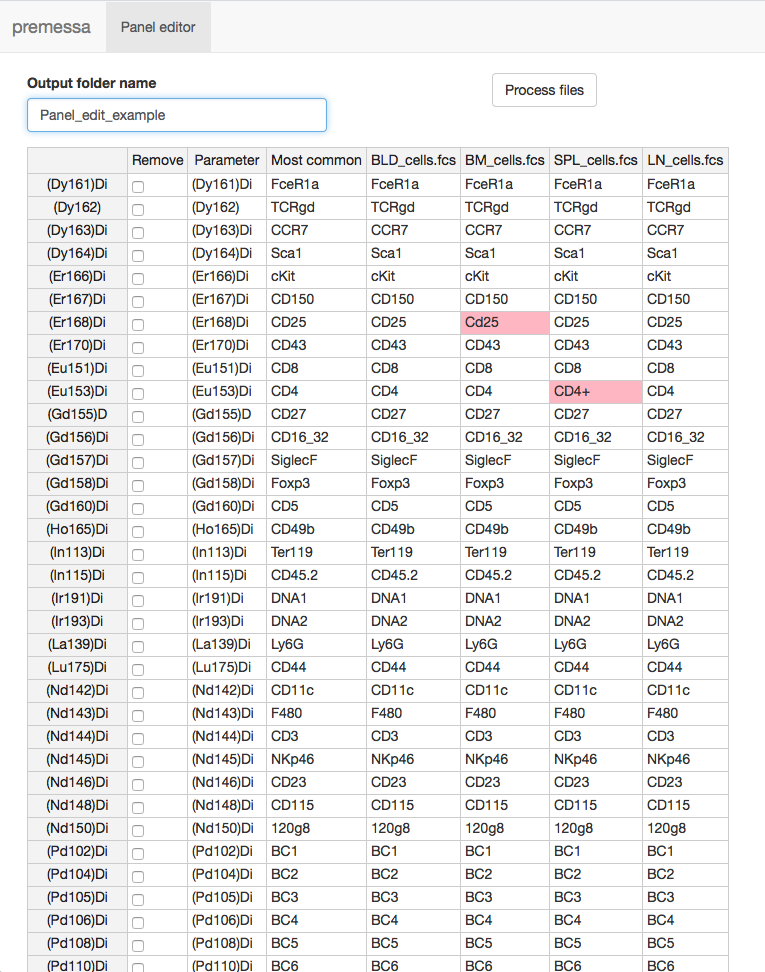
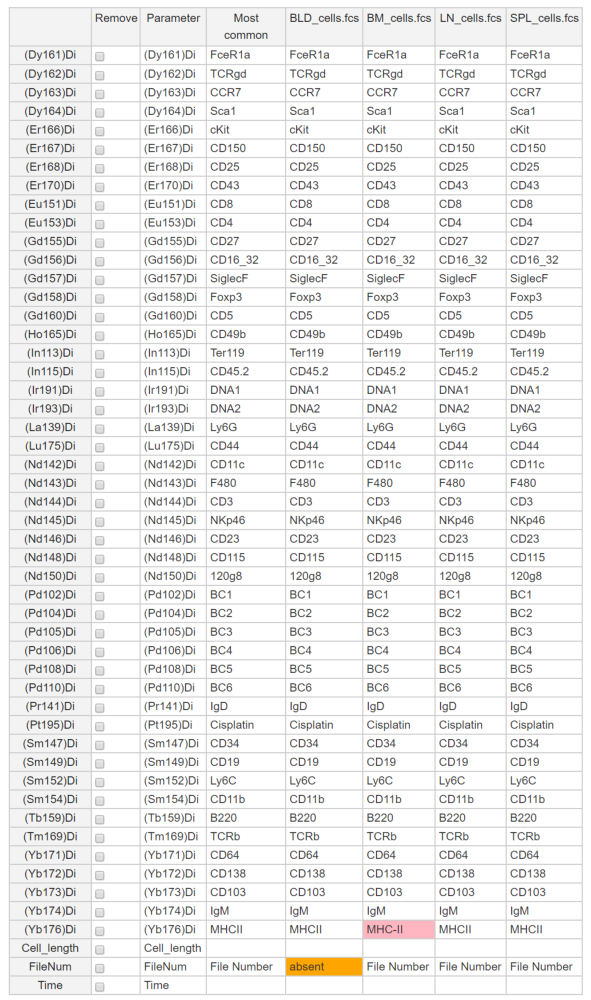
updated README

diff --git a/README.md b/README.md
@@ -50,19 +50,19 @@ normalizer_GUI()
 ```
 In this tutorial we will use both formats, depending on how many functions we are calling from the same package (the second format saves a lot of typing if you are using multiple functions from the same pacakage in your analysis)
 
-# Description of the dataset used in this tutorial
+# Overview of the tutorial and sample data
 
-**[ADD A DECSRIPTION OF THE DATASET, HOW MANY FILES, HOW THEY ARE ORGANIZED, WHAT SAMPLES THEY REPRESENT]**
+In this tutorial we will provide step-by-step instructions to analyze and visualize high-dimensional single cell cytometry data. While these methods are applicable to both flow and mass-cytometry data, this tutorial uses a mass-cytometry from a 2015 [publication](https://www.ncbi.nlm.nih.gov/pubmed/26160952) in _Science_.
 
-# Overview
+The data (a subset of the data presented in the paper) is available [here](https://pici.app.box.com/folder/52255586839). This dataset includes immune cells from 4 different tissues (bone marrow, blood, spleen, lymph nodes) and 3 different genetic strains of mice (C57BL/6, Balb/c, and 129S1/S). 
 
-In this tutorial, we will go step-by-step covering methods to analyze and visualize high-dimensional single cell data. Wihle these methods are applicable to both flow and mass-cytometry data, this tutorial uses a mass-cytometry [dataset](https://github.com/ParkerICI/July-2018-single-cell-workshop/tree/master/Science%20datasets) (from a 2015 [publication](https://www.ncbi.nlm.nih.gov/pmc/articles/PMC4537647/) in _Science_).
+The dataset is quite massive, and some steps may require a large computer to perform. If you are having troubles, the dataset folder contains processed data for all the computationally intensive steps.
 
-We will go through the following steps which, save for a few exceptions, would also apply to a flow-cytometry dataset:
+During this tutorial, we will go through the following steps which, save for a few exceptions, would also apply to a flow-cytometry dataset:
 
 * [Panel editing](#panel-editing) 
-* [Normalization](#normalization) (Mass Cytometry)
-* [De-barcoding](#de-barcoding) (Mass Cytometry)
+* [Normalization](#normalization) (Mass Cytometry only)
+* [De-barcoding](#de-barcoding) (Mass Cytometry only)
 * [Gating](#gating)
 * [Visualization - running the analysis](#visualization---running-the-analysis)
   * [Unsupervised visualization](#unsupervised-visualization)
@@ -74,13 +74,9 @@ We will go through the following steps which, save for a few exceptions, would a
 # Panel editing
 Most analysis tools expect files that are part of the same analysis to have parameters and reagents named consistently. The [premessa](https://github.com/ParkerICI/premessa) includes a GUI tool that can be used to rename and synchronize panels across multiple FCS files.
 
-A few warnings. `premessa` is *opinionated* in the way it handles the information in the FCS panels, and is specifically tailored to handle the most common use case. The FCS file specification is problematic in a lot of ways and most instrument and analysis software packages do not use or interpret the information correctly anyways. There are 3 ways to refer to a channel in an FCS file, by number (e.g. the order in which they appear in the file), by name (e.g. *Dy161Di* ) and by description (e.g. *CD3*). `premessa` uses the name as unique channel identifier for two reasons:
-- it is guaranteed to be unique in a valid FCS file
-- it minimizes the risk of confusion when matching channels between multiple FCS files, as it corresponds to the intuitive notion of matching channels based on their identity instead of their ordering.
+Please refer to the original documentation for details about how the panel editing works and some of the subtleties of handling different FCS parameters
 
-The consequence of this choice is that **the ordering of the channels is not preserved during the processing**. Also at present `premessa` only preseves the `name` and `description` parameter keywords (i.e. $PnN and $PnS). All other parameter keywords (e.g. $PnG, $PnL, $PnO etc.) are discarded.
-
-### Usage
+## Usage
 
 You can start the panel editing GUI by typing the following command in your R session:
 ```R
@@ -95,13 +91,11 @@ The table begins with three special columns:
 - *Parameter*: this column represent the parameter name ($PnN keyword). Initially it will be identical to the first column of row names, but this column is editable. You can edit this column if you want to change the parameter names in the output files.
 - *Most common*: this column indicates what is the most common description value for that parameter, across all the files under analysis (i.e. the most common string across the row). Cells whose value differs from the value indicated in this column are displayed with a light pink background.
 
-The table columns are sorted by the number of *problematic* columns, i.e. by the number of pink and orange cells in the column. The first three columns of the table are fixed and always visible when you scroll the table horizontally. Please note that the browser included with the current vesion of RStudio seems to have a problem where the column headers do not scroll correctly. If that is the case, open the application in a regular web browser, by click on the "open browser" button in the top right corner of the RStudio browser.
-
 Two controls are located at the top of the table
 - *Output folder name*: a text box where you can input the name of the output folder. If this folder does not exist, it will be created as a sub-folder of the current working directory.
 - *Process files*: this button will start file processing. A file will be created in the output folder, with the same name as the original input file. **If a file of the same name exists already, it will be overwritten**. No change is made to the original files.
 
-### Panel editing with example data
+## Panel editing with example data
 
 Start the GUI in your R window:
 
@@ -109,21 +103,21 @@ Start the GUI in your R window:
 premessa::paneleditor_GUI()
 ```
 
-Then, select the "panel editing example" files as the directory. This will prompt a browser window that looks like this:
+Then, select the `original_files` directory in the sample dataset . This will prompt a browser window that looks like this:
+
 ![panel_edit_example](screenshots/panel_edit_example.png)
 
-As you can see here, there are several errors:
-  1. Marker description inconsistencies-both shaded in pink ("CD25" marker in the "BM_cells.fcs" colunm is labeled instead as "Cd25",    "CD4" marker in the "SPL_cells.fcs" file is labeled "CD4+")
-  2. Marker name inconsistencies (marker "(Dy162)Di" is labeled "(Dy162)" and "(Gd155)Di" is "(Gd155)D" here)
+As you can see here, there are two discrepnacies:
+1. The file `BLD_cells.fcs` is missing the `FileNum` parameter. Click on the checkbox in the `Remove` column to remove this parameter from all the files
+2. The parameter `(Yb176Di)` has `MHC-II` as the description in the `BM_cells.fcs` file, while it is named `MHCII` in all the other files. Correct this by editing the corresponding cell in the table
   
-Rename these to by using basic editing controls described above, designate the name of your reconciled files (default is "renamed") then hit "Process files" and wait for your renamed files to be generated. When you're finished, you can re-open the files and check to make sure everything was properly edited:
-![panel_edit_example_renamed](screenshots/panel_edit_example_renamed.png)
+Once you make these edits click the `Process files` button, and the renamed files will be created in a subfolder called `renamed` of the current working directory. For convenience the renamed files are also included in the sample dataset distribution, in the `renamed` folder
 
-These edited, consistently named files can be carried into the downstream steps of the analysis.
+You can close the GUI and reopen it again in the `renamed` folder to verify that all the files now have consistent panel names. These corrected files are what we are going to use for the remainder of the analysis
 
 # Normalization
 
-*Warning: the sample dataset is pretty massive. If you are having trouble normalizing data on your machine, the normalization results for this tutorial are located in the XXX folder*
+*Warning: the sample dataset is pretty massive. If you are having trouble normalizing data on your machine, the normalization results for this tutorial are located in the `normed` folder*
 
 The sensitivity of a CyTOF machine changes between different days (due to tuning) as well as during a single run due to variations in detector performance. To correct for this problem, [this](https://www.ncbi.nlm.nih.gov/pubmed/23512433) publication introduced the use of polystirene beads that can be used as a reference synthetic standard (the beads are commercially available from [Fluidigm](https://www.fluidigm.com/))
 
@@ -138,19 +132,19 @@ For the purpose of this tutorial we will use the first method. The workflow invo
 2. Data normalization
 3. Bead removal (optional)
 
-Assuming you're using the example [Science data](https://github.com/ParkerICI/July-2018-single-cell-workshop/tree/master/Science%20datasets) as your working directory and it contains four FCS files called BM_cells.FCS, SPL_cells.FCS, LN_cells.FCS and BLD_cells.FCD, at the end of the workflow the following directory structure and output files will be generated:
+Assuming you're using the `renamed` folder as your working directory, at the end of the workflow the following directory structure and output files will be generated:
 
 ```
-Science data
-|--- BM_cells.FCS 
-|--- SPL_cells.FCS 
-|--- LN_cells.FCS 
-|--- BLD_cells.FCS
+renamed
+|--- BM_cells.fcs 
+|--- SPL_cells.fcs 
+|--- LN_cells.fcs
+|--- BLD_cells.fcs
 |--- normed
      |--- BM_cells_normalized.fcs
      |--- SPL_cells_normalized.fcs
-     |--- LN_cells_normalized.FCS 
-     |--- BLD_cells_normalized.FCS
+     |--- LN_cells_normalized.fcs
+     |--- BLD_cells_normalized.fcs
      |--- beads_before_and_after.pdf
      |--- beads_vs_time
           |--- BM_cells.pdf
@@ -236,7 +230,7 @@ The plots in the bottom half of the panel help you select an appropriate cutoff.
 
 # De-barcoding
 
-*Warning: the sample dataset is pretty massive. If you are having trouble debarcoding data on your machine, the debarcoding results for this tutorial are located in the XXX folder*
+*Warning: the sample dataset is pretty massive. If you are having trouble debarcoding data on your machine, the debarcoding results for this tutorial are located in the `debarcoded` folder*
 
 Barcoding (described in [this](https://www.ncbi.nlm.nih.gov/pubmed/25612231) publication) is a way to minimize staining variability across multiple samples. Each sample is labeled with a unique combination of metals before staining. All the samples are then pooled in a single tube, and stained in a single reaction, which guarantees that they are all exposed to the same amount of antibody.
 
@@ -244,7 +238,9 @@ After the data for this pooled sample is acquired, the software goes through eac
 
 It is important to note that barcoding only addresses variability that is due to staining differences. It does **not** account for variation due to instrument setup or sensitivity (you need to use [normalization](#normalization) for that)
 
-Assuming the FCS file *BM_cells.fcs* is located in the directory *Science Data*, and the barcode key defines 20 barcoded populations (1-20), the following directories and output files will be created at the end of the debarcoding process:
+In this dataset samples for each tissue where barcoded together. Each barcoded file contains 14 samples from the C57BL/6 strain, 3 from the Balb/c, and 3 from the 129S1/S (as evidenced by the file names after debarcoding)
+
+Assuming the FCS file *BM_cells_normalized_beadsremoved.fcs* is located in the `normed` directory, the following directories and output files will be created at the end of the debarcoding process:
 
 ```
 Science Data
@@ -466,7 +462,7 @@ For the purpose of tutorial we will create a single unsupervised graphs includin
 
 ```R
 # List the clustered.txt files contained in the "single_samples" directory
-input.files <- list.files(path = "clustered_single_samples", pattern = "*.clustered.txt$", full.names = TRUE)
+input.files <- list.files(path = "clustered_by_tissue", pattern = "*.clustered.txt$", full.names = TRUE)
 
 # Optional: load a table of sample-level metadata. All the nodes derived from the corresponding cluster file will
 # have vertex properties corresponding to this metadata
@@ -506,7 +502,7 @@ Also with this approach multiple samples can be processed independently because 
 
 
 
-This code snippet demonstrates how to construct scaffold maps. In this example, the data for the landmark nodes, i.e. the gated populations, are given to you in the subfolder called [gated](https://github.com/ParkerICI/July-2018-single-cell-workshop/tree/master/Science%20datasets) as single FCS files (one for each population). The software will split the name of the FCS files using `"_"` as separator and the last field will be used as the population name. For instance if a file is called `foo_bar_foobar_Bcells.fcs` the corresponding population will be called `Bcells` in the scaffold analysis.
+This code snippet demonstrates how to construct scaffold maps. In this example, the data for the landmark nodes, i.e. the gated populations, are given to you in the subfolder called `landmarks` as single FCS files (one for each population). The software will split the name of the FCS files using `"_"` as separator and the last field will be used as the population name. For instance if a file is called `foo_bar_foobar_Bcells.fcs` the corresponding population will be called `Bcells` in the scaffold analysis.
 
 For the purpose of this tutorial, we will use the data clustered by pooling all the samples from the same tissue together. Therefore we will obtain a Scaffold map for each tissue. When we visualize the data with `panorama` (see below) we will also be able to visualize each sample independently
 
@@ -521,7 +517,7 @@ col.names <- c("CD45.2", "Ly6G", "IgD", "CD11c", "F480", "CD3", "NKp46", "CD23",
     "CD138", "CD103", "IgM", "CD44", "MHCII")
 
 # Load the data for the landmarks
-landmarks.data <- vite::load_landmarks_from_dir("gated/", asinh.cofactor = 5, transform.data = T)
+landmarks.data <- vite::load_landmarks_from_dir("landmarks/", asinh.cofactor = 5, transform.data = T)
     
 # Run the analysis. By default results will be saved in a directory called "scaffold_result"
 vite::run_scaffold_analysis(input.files, ref.file = "clustered_by_tissue/BM.pooled.clustered.txt", landmarks.data, col.names)
